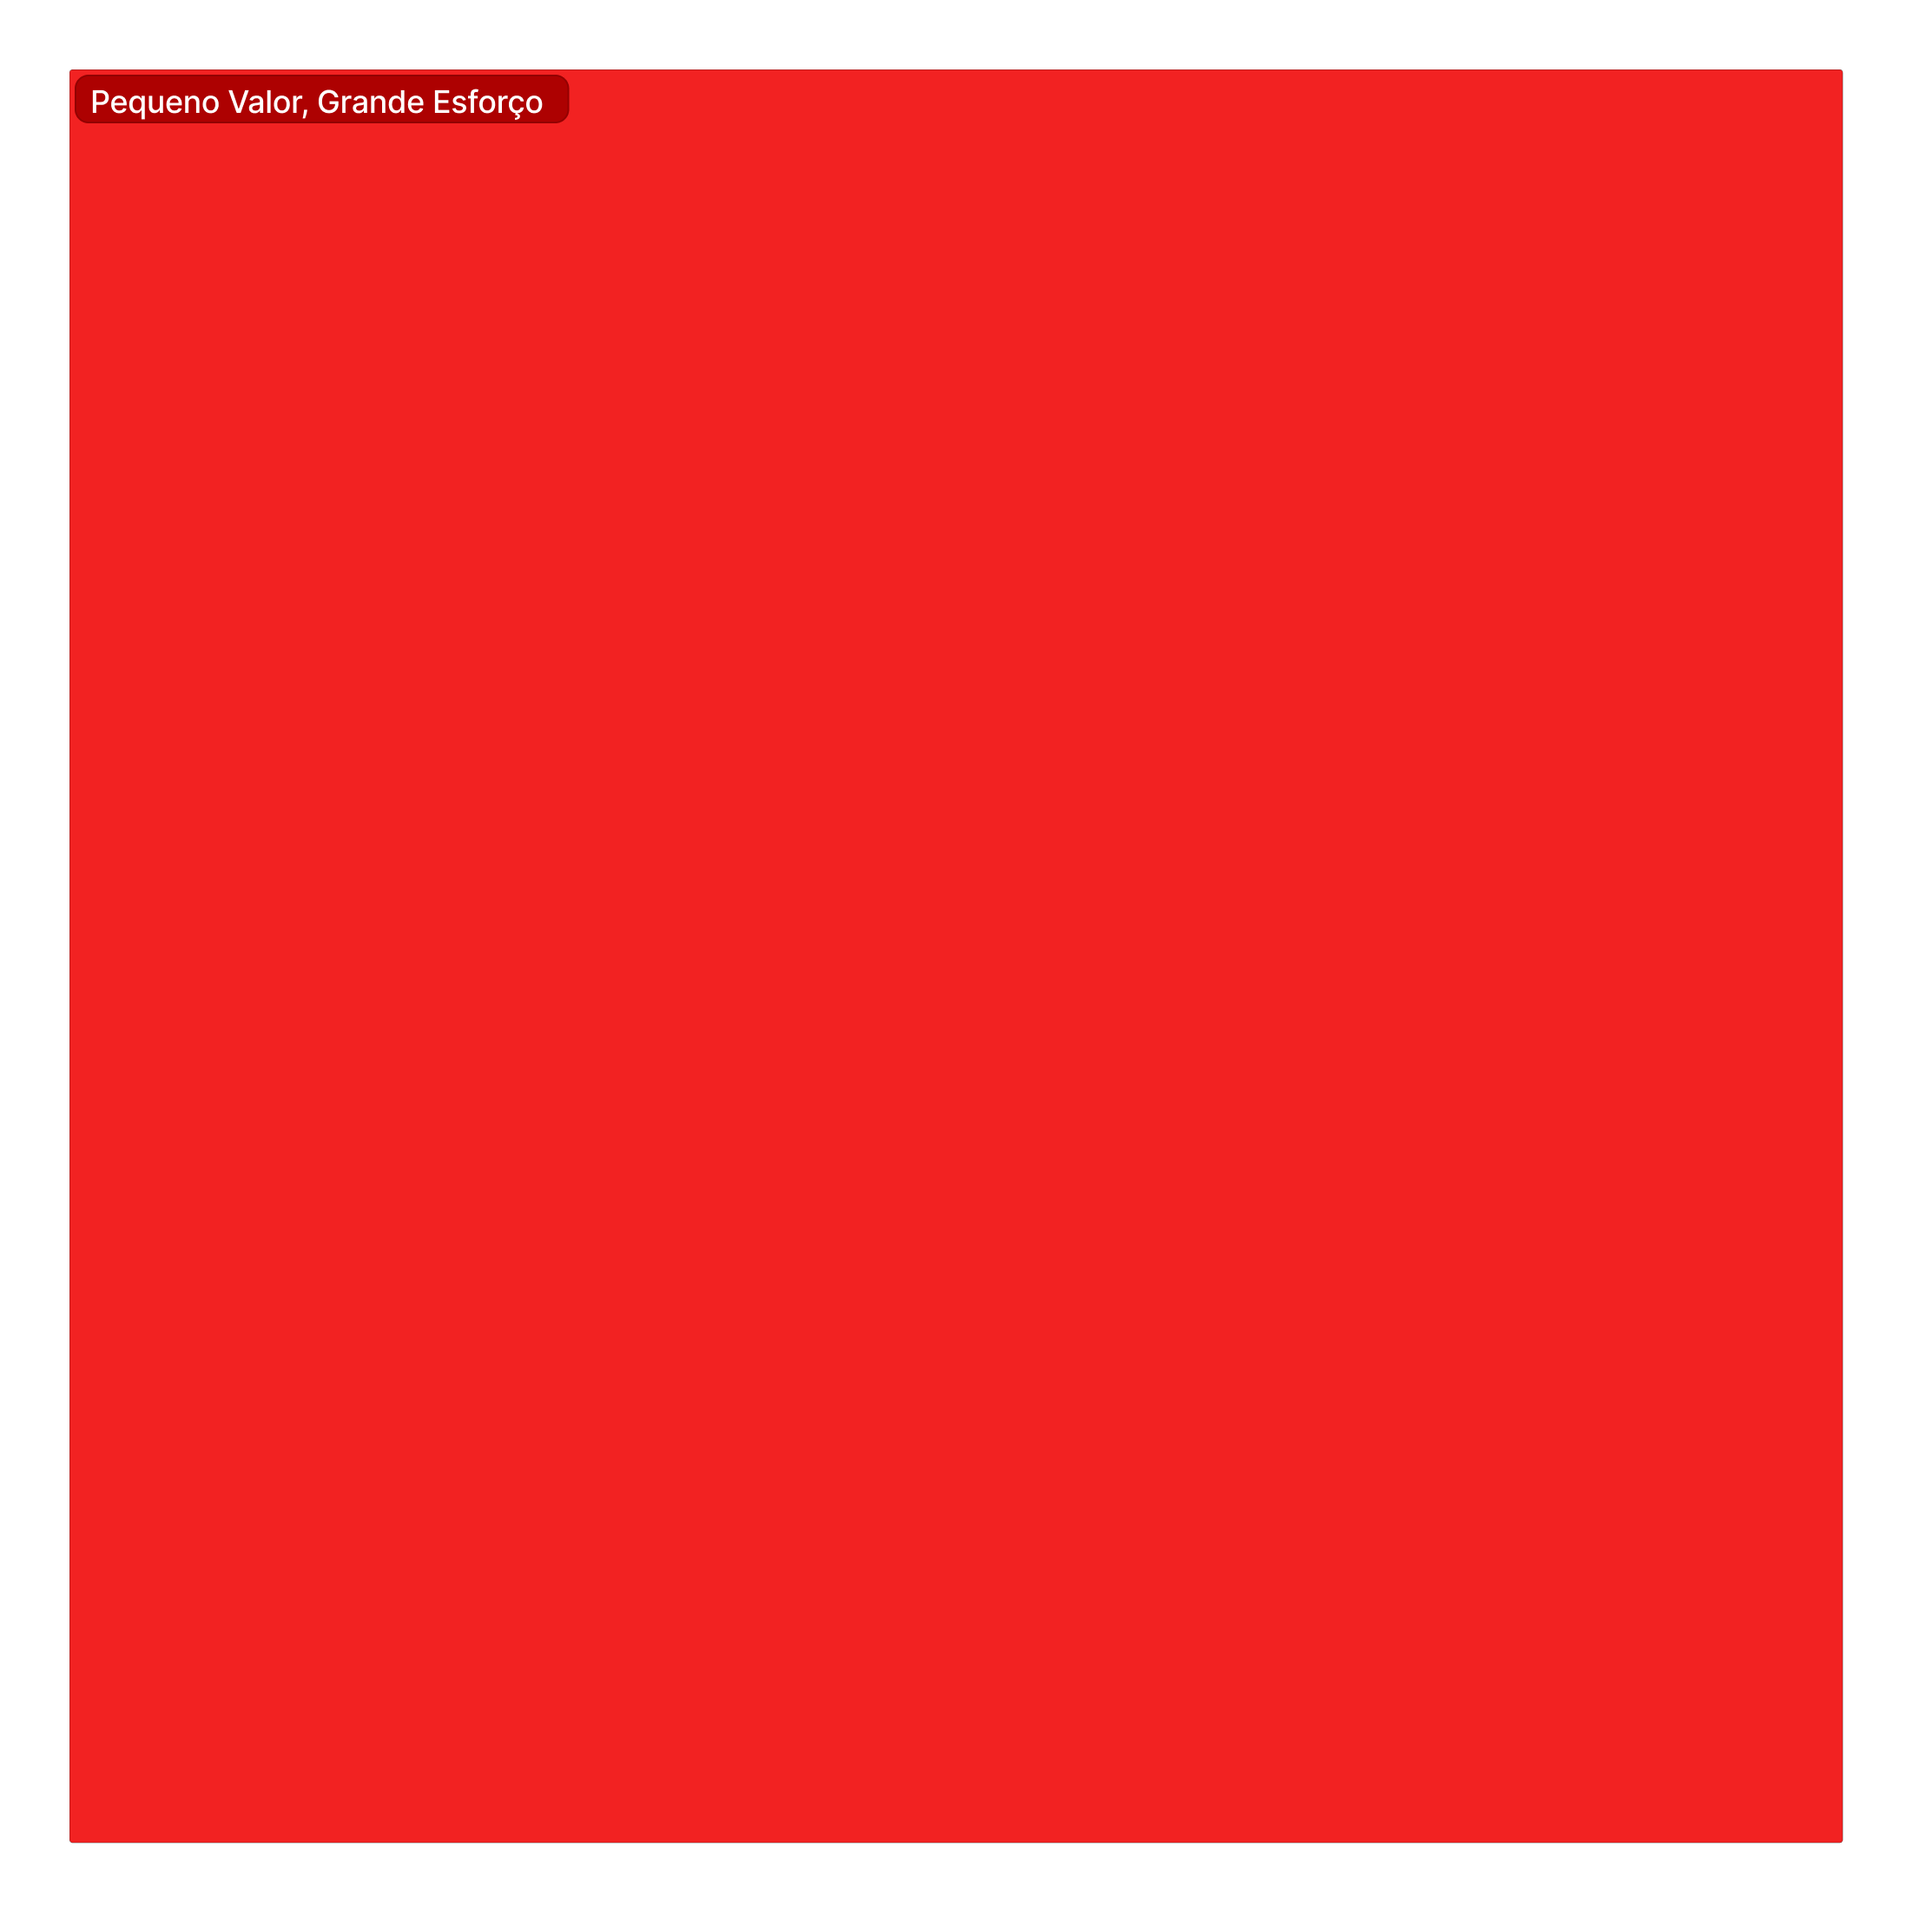
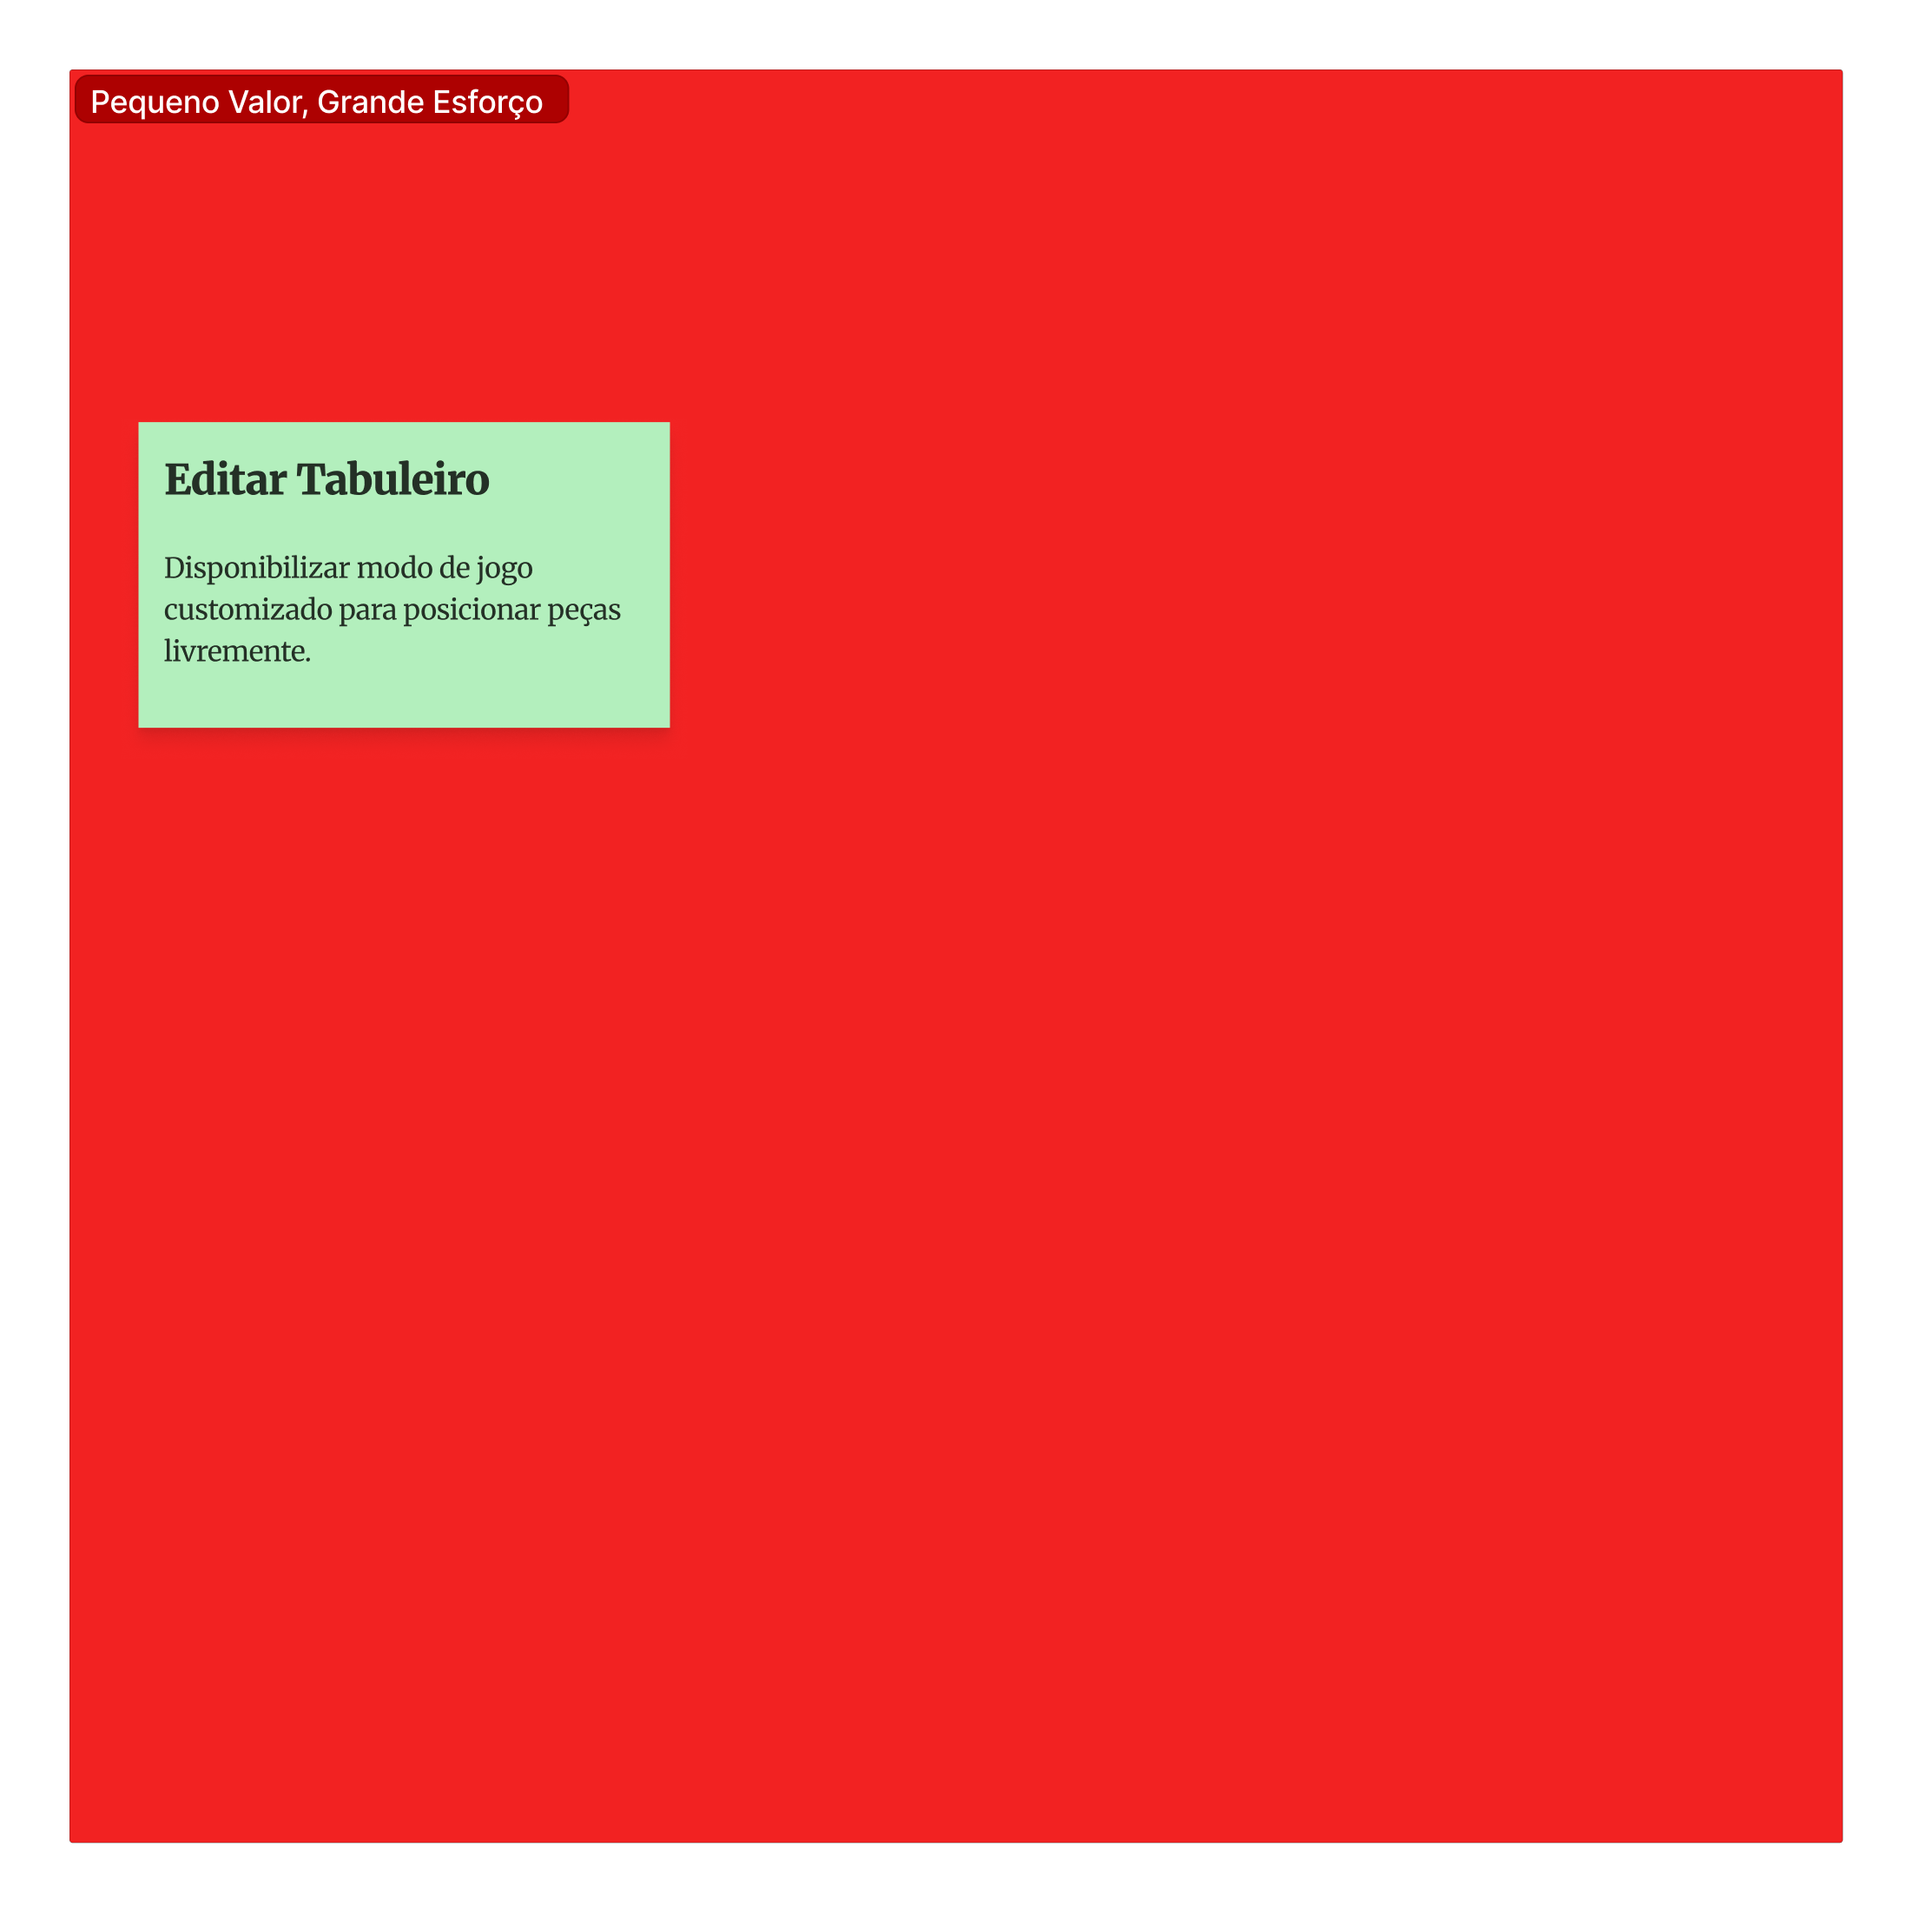
Correcao no Valor vs Esforco

Changed region(s): [[0.0617, 0.2161, 0.3704, 0.4013]]

diff --git a/docs/requisitos/valorEsforco.md b/docs/requisitos/valorEsforco.md
@@ -12,11 +12,11 @@ A distribuição dos 16 Requisitos Funcionais do escopo verde está organizadas 
 | **RF02** | Selecionar Peça |
 | **RF04** | Mover Peça |
 | **RF05** | Alterar Tempo de Jogo |
+| **RF08** | Modificar Cores |
 | **RF09** | Alterar Nomes |
 | **RF10** | Desistir da Partida |
 | **RF11** | Propor Empate |
-| **RF12** | Exibir Resultado ||
-| **RF14** | Exibir Peças Capturadas |
+| **RF12** | Exibir Resultado |
 
 ---
 
@@ -26,7 +26,7 @@ A distribuição dos 16 Requisitos Funcionais do escopo verde está organizadas 
 | :--- | :--- |
 | **RF03** | Exibir Jogadas Possíveis |
 | **RF06** | Exibir Histórico de Movimentos |
-| **RF13** | Editar Tabuleiro | 
+| **RF14** | Exibir Peças Capturadas |
 | **RF15** | Exibir Espaços Seguros |
 | **RF16** | Validar Jogadas |
 
@@ -37,13 +37,12 @@ A distribuição dos 16 Requisitos Funcionais do escopo verde está organizadas 
 | ID | Requisito |
 | :--- | :--- |
 | **RF07** | Voltar Movimentos |
-| **RF08** | Modificar Cores |
 
 ---
 
 ### Pequeno Valor x Grande Esforço
  
-Nâo existe nenhum requisito nessa categoria
+| **RF13** | Editar Tabuleiro | 
 
 ---
 

diff --git a/docs/backlog/backlog.md b/docs/backlog/backlog.md
@@ -3,7 +3,7 @@
 | US | Nome | Descrição | RF Pai |
 |---|---|---|---|
 | **US01** | Visualização do Tabuleiro | Como jogador, quero visualizar o tabuleiro, para jogar o jogo. | RF01 |
-| **US02** | Seleção de Peças | Como jogador, quero clicar nas minhas peças, para que fique selecionada para a jogada. | RF02 |
+| **US02** | Seleção de Peças | Como jogador, quero clicar nas minhas peças, para que fique selecionada. | RF02 |
 | **US03** | Exibição de jogadas possíveis | Como jogador, quero ver os possíveis movimentos da minha peça selecionada, para que facilite minhas decisões. | RF03 |
 | **US04** | Movimentação de peça | Como jogador, quero mover minha peça selecionada para o destino possível que escolhi, para realizar a jogada. | RF04 |
 | **US05** | Alteração de tempo de Jogo | Como jogador, quero selecionar quanto tempo total e extra cada jogador deve ter, para controlar a duração máxima do jogo. | RF05 |

diff --git a/docs/requisitos/moscow.md b/docs/requisitos/moscow.md
@@ -24,6 +24,7 @@ A matriz MoSCoW abaixo prioriza as funcionalidades do sistema com base nos Requi
 | **RF03** | Exibir Jogadas Possíveis |
 | **RF05** | Alterar Tempo de Jogo |
 | **RF06** | Exibir Histórico de Movimentos |
+| **RF08** | Modificar Cores |
 | **RF09** | Alterar Nomes |
 | **RF14** | Exibir Peças Capturadas |
 | **RF15** | Exibir Espaços Seguros | 
@@ -35,7 +36,6 @@ A matriz MoSCoW abaixo prioriza as funcionalidades do sistema com base nos Requi
 | ID | Requisito |
 | :--- | :--- |
 | **RF07** | Voltar Movimentos |
-| **RF08** | Modificar Cores |
 | **RF13** | Editar Tabuleiro |
 
 ---

diff --git a/docs/backlog/US/US02.md b/docs/backlog/US/US02.md
@@ -1,6 +1,6 @@
 # US02 - Seleção de Peças
 
-> Como jogador, quero clicar nas minhas peças, para que fique selecionada para a jogada.
+> Como jogador, quero clicar nas minhas peças, para que fique selecionada.
 
 ## Requisito Pai
 
